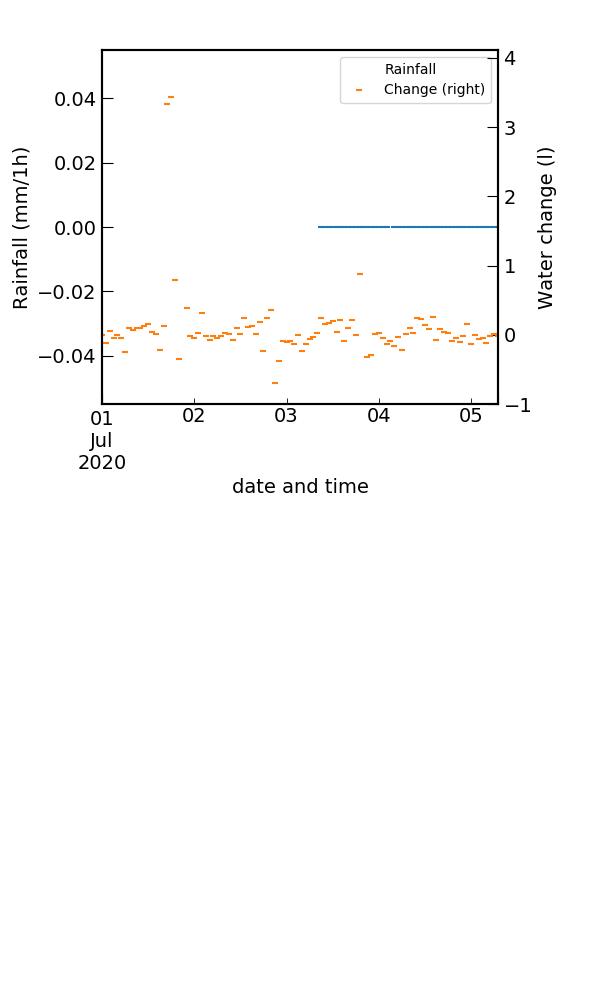
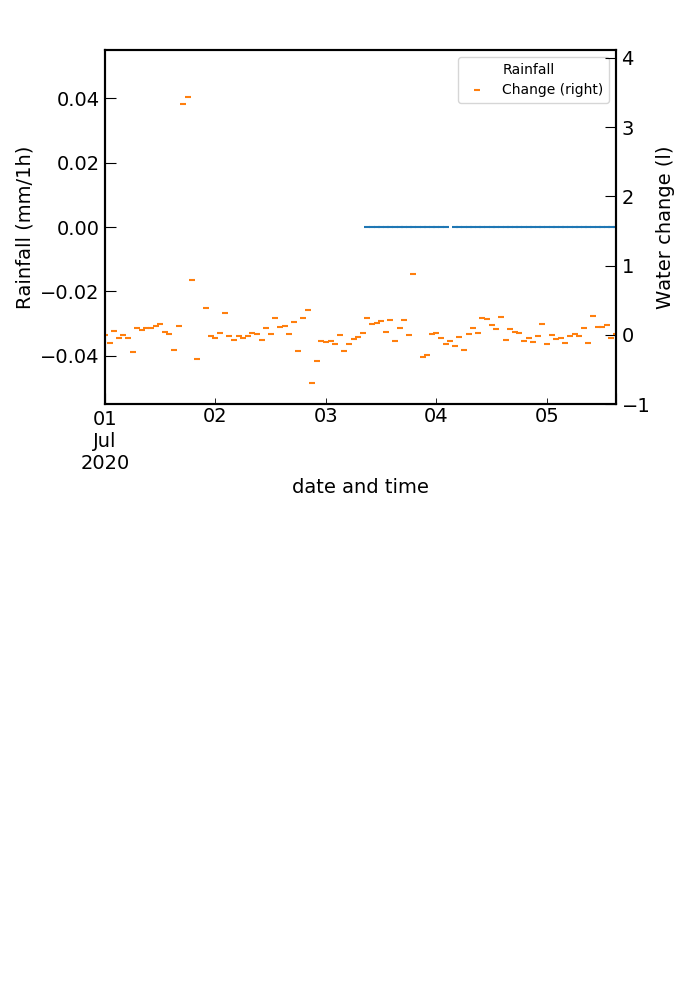
small adjustements

diff --git a/waterLevelScripts.py b/waterLevelScripts.py
@@ -84,8 +84,8 @@ def plotRainFallData(wd=None):
     
     #ts = pd.Series(wLevel['Time'],wLevel[1])
     #ts.plot()
-    plt.figure(figsize=(8,10))
-    plt.subplots_adjust(left=0.17, right=0.83, top=0.95, bottom=0.1,hspace=0.4)
+    plt.figure(figsize=(7,10))
+    plt.subplots_adjust(left=0.15, right=0.88, top=0.95, bottom=0.1,hspace=0.4)
     ax0 = plt.subplot(211)
     #fig, axes = plt.subplots(nrows=2, ncols=1)
     joinedTS.plot(y='Rainfall',style='_',ms=5,ax=ax0)#,style='_',ms=2,ax=ax0) 
@@ -94,7 +94,7 @@ def plotRainFallData(wd=None):
     #wLevelSummary.plot(y='Change',secondary_y=True,style='_',ms=2,ax=ax0) 
     
     ax0.set_ylabel('Rainfall (mm/1h)',fontsize=14)
-    ax0.right_ax.set_ylabel('Water change (l)',fontsize=14)
+    ax0.right_ax.set_ylabel('Positive water change (l)',fontsize=14)
     ax0.right_ax.set_ylim(-1,)
     ax0.set_xlabel('date and time',fontsize=14)
     #ax0.set_xlim(pd.Timestamp('2020-07-01'), pd.Timestamp('2020-07-10'))
